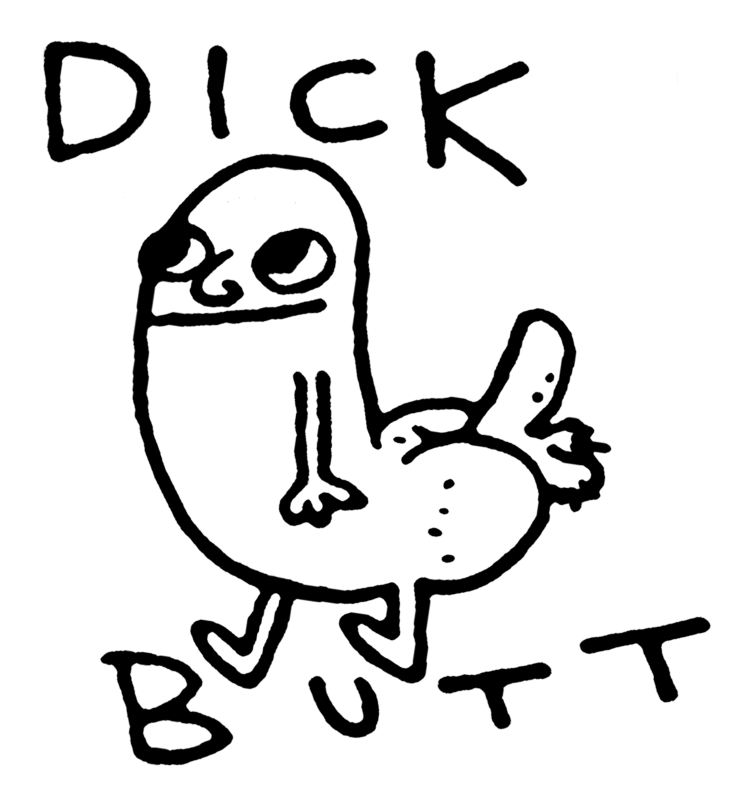
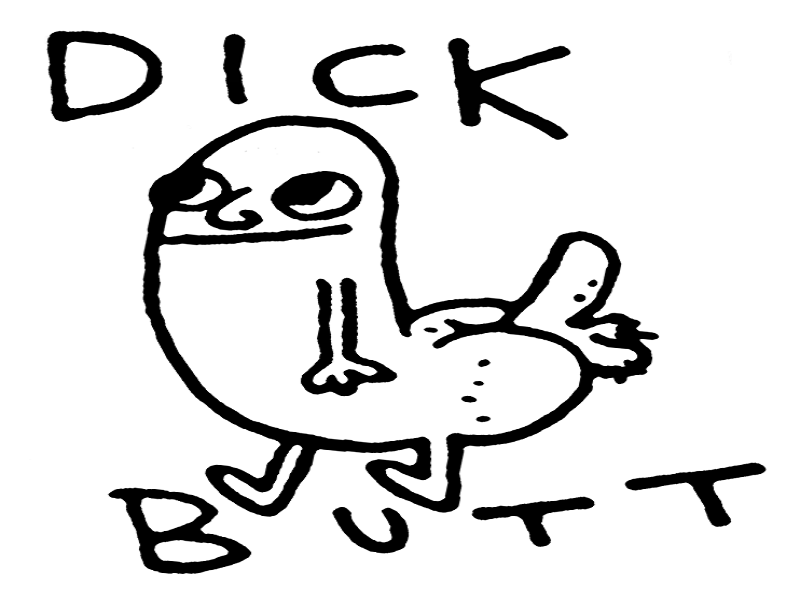
Added End screen and Dickbutt
the buttening

diff --git a/Dickbutt/Dickbutt/Application.cpp b/Dickbutt/Dickbutt/Application.cpp
@@ -63,8 +63,16 @@ Application::Application(void)
 			case PLAYING:
 				Update();
 				Draw();
+				if(_currentLevel>TOTAL_LEVELS)
+				{
+				
+					gameState = END;
+				
+				}
 				break;
 			case END:
+				splash = new sf::Sprite();
+				splash->setTexture(SpriteLibrary::GetTexture(SpriteLibrary::SPLASH));
 				EndGame();
 				break;
 		}
@@ -364,7 +372,10 @@ void Application::StartLevel()
 
 void Application::EndGame()
 {
-	printf("Game over, chump");
+	_window->clear(sf::Color(255, 0, 255, 255));
+	sf::Sprite mySplash = SpriteLibrary::GetSprite(SpriteLibrary::DICKBUTT);
+	_window->draw(mySplash);
+	_window->display();
 }
 
 Application::~Application(void)

diff --git a/Dickbutt/Dickbutt/Application.h b/Dickbutt/Dickbutt/Application.h
@@ -44,6 +44,7 @@ private:
 	std::string* _levelNames;
 	
 	sf::Sprite* splash;
+	sf::Sprite* end;
 
 	LevelClass* _level;
 	Player* _player;
